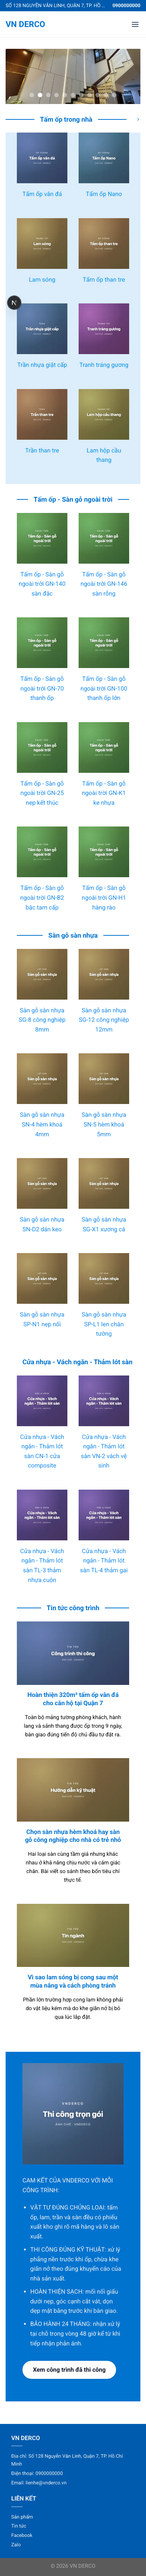
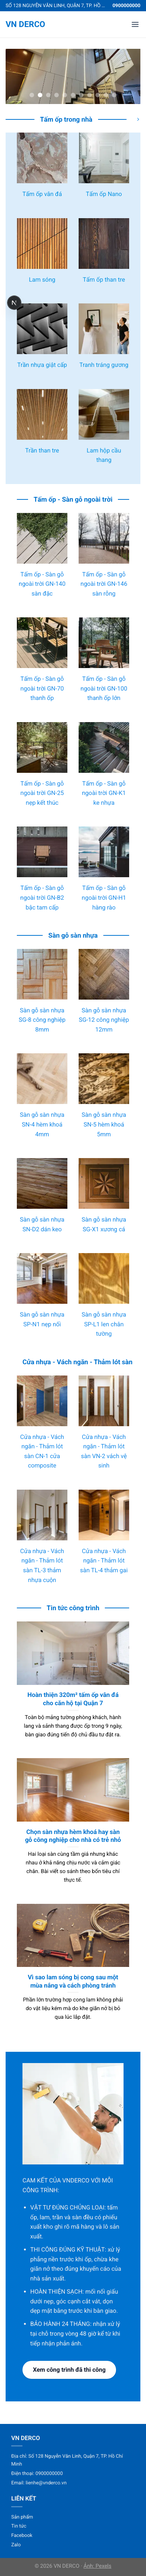
feat: swap the placeholder catalog images for stock photography
Point every product, post and the home intro band at Pexels photography
instead of the generated placeholders, and delete the replaced files from
storage so the bucket does not accumulate orphans.

Search by material surface rather than by room. "marble wall interior
luxury" returns photogenic bathrooms; "marble slab texture" returns the
stone face itself, which is what someone choosing cladding actually needs
to see. Same reasoning behind "wood slat wall", "parquet floor" and
"terrace decking wood".

Credit Pexels in the footer strip. The reference design has no such line —
it is here because the Pexels API terms ask for a visible link wherever
API-sourced photos appear, and it can go once real project photography
replaces the stock.

Four categories still carry loose matches (Nano panel, stepped ceiling,
mirror art, one flooring shot). Keyword search cannot close that gap;
those want either different queries or real photographs.

Claude-Session: https://claude.ai/code/session_01NAubjtFUj36VydutoHvT2Y

Changed region(s): [[0.0923, 0.0312, 0.8923, 0.8423]]

diff --git a/prisma/seed-stock-images.ts b/prisma/seed-stock-images.ts
@@ -23,17 +23,20 @@ if (!KEY) {
 
 /** Từ khoá tìm ảnh cho từng danh mục — tiếng Anh vì kho ảnh gắn thẻ bằng tiếng Anh. */
 const QUERIES: Record<string, string> = {
-  'Tấm ốp vân đá': 'marble wall interior luxury',
-  'Tấm ốp Nano': 'modern white wall panel interior',
-  'Lam sóng': 'wood slat wall panel interior',
-  'Tấm ốp than tre': 'bamboo wood wall texture interior',
-  'Trần nhựa giật cấp': 'modern ceiling light interior',
-  'Tranh tráng gương': 'framed art living room wall',
-  'Trần than tre': 'wooden ceiling architecture',
-  'Lam hộp cầu thang': 'wooden staircase railing modern',
-  'Tấm ốp - Sàn gỗ ngoài trời': 'wooden deck terrace outdoor',
-  'Sàn gỗ sàn nhựa': 'wooden floor parquet room',
-  'Cửa nhựa - Vách ngăn - Thảm lót sàn': 'modern interior door hallway',
+  // Từ khoá chọn theo BỀ MẶT VẬT LIỆU chứ không theo căn phòng: tìm "marble wall
+  // interior luxury" thì Pexels trả về ảnh phòng tắm đẹp, còn "marble slab
+  // texture" mới ra đúng mặt đá — thứ khách cần nhìn để chọn hàng.
+  'Tấm ốp vân đá': 'marble slab texture',
+  'Tấm ốp Nano': 'white paneled wall',
+  'Lam sóng': 'wood slat wall',
+  'Tấm ốp than tre': 'dark wood panel wall',
+  'Trần nhựa giật cấp': 'modern ceiling design',
+  'Tranh tráng gương': 'framed wall art living room',
+  'Trần than tre': 'wood plank ceiling',
+  'Lam hộp cầu thang': 'wooden staircase railing',
+  'Tấm ốp - Sàn gỗ ngoài trời': 'terrace decking wood',
+  'Sàn gỗ sàn nhựa': 'parquet floor',
+  'Cửa nhựa - Vách ngăn - Thảm lót sàn': 'wooden door hallway',
 }
 
 const POST_QUERIES = [

diff --git a/components/public/SiteFooter.tsx b/components/public/SiteFooter.tsx
@@ -54,6 +54,14 @@ export function SiteFooter({ settings }: { settings: SiteSetting }) {
       <div className="bg-[#5b5b5b] pt-[10px] pb-[15px] text-center text-[14.4px]/[23.04px] text-white/50">
         <div className="vnd-container">
           © {new Date().getFullYear()} {settings.siteName}
+          {/* Điều khoản API của Pexels đòi một liên kết dễ thấy trỏ về họ ở nơi
+              hiển thị ảnh lấy qua API. Bản thiết kế tham chiếu không có dòng này
+              — nó ở đây vì nghĩa vụ giấy phép, không phải vì thiết kế. Khi nào
+              thay hết bằng ảnh công trình thật của VNDERCO thì bỏ đi được. */}
+          {' · '}
+          <a href="https://www.pexels.com" rel="noopener" className="underline hover:text-white/80">
+            Ảnh: Pexels
+          </a>
         </div>
       </div>
     </footer>
